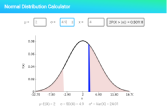
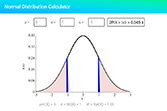
* Fixes missing blue line in abs case * Adds updated screenshot

diff --git a/src/controllers/player.js b/src/controllers/player.js
@@ -133,20 +133,23 @@ function updateChart() {
   // Highlight selected area
   if(probType == "left") {
     myGraph.highlightArea(minX, x, '#f1cdccb8');
+    // Highlight X
+    myGraph.highlightArea(x - (stddev * 0.05), x + (stddev * 0.05), 'blue');
   }
   else if(probType == "right") {
     myGraph.highlightArea(x, maxX, '#f1cdccb8');
+    // Highlight X
+    myGraph.highlightArea(x - (stddev * 0.05), x + (stddev * 0.05), 'blue');
   }
   else if(probType == "abs") {
     let left = -Math.abs(x);
     let right = Math.abs(x);
     myGraph.highlightArea(minX, left, '#f1cdccb8');
     myGraph.highlightArea(right, maxX, '#f1cdccb8');
-
+    // Highlight X
+    myGraph.highlightArea(left - (stddev * 0.05), left + (stddev * 0.05), 'blue');
+    myGraph.highlightArea(right - (stddev * 0.05), right + (stddev * 0.05), 'blue');
   }
-
-  // Highlight X
-  myGraph.highlightArea(x - (stddev*0.05), x + (stddev*0.05), 'blue');
 }
 
 // X input has changed, try to give answer and then update chart
